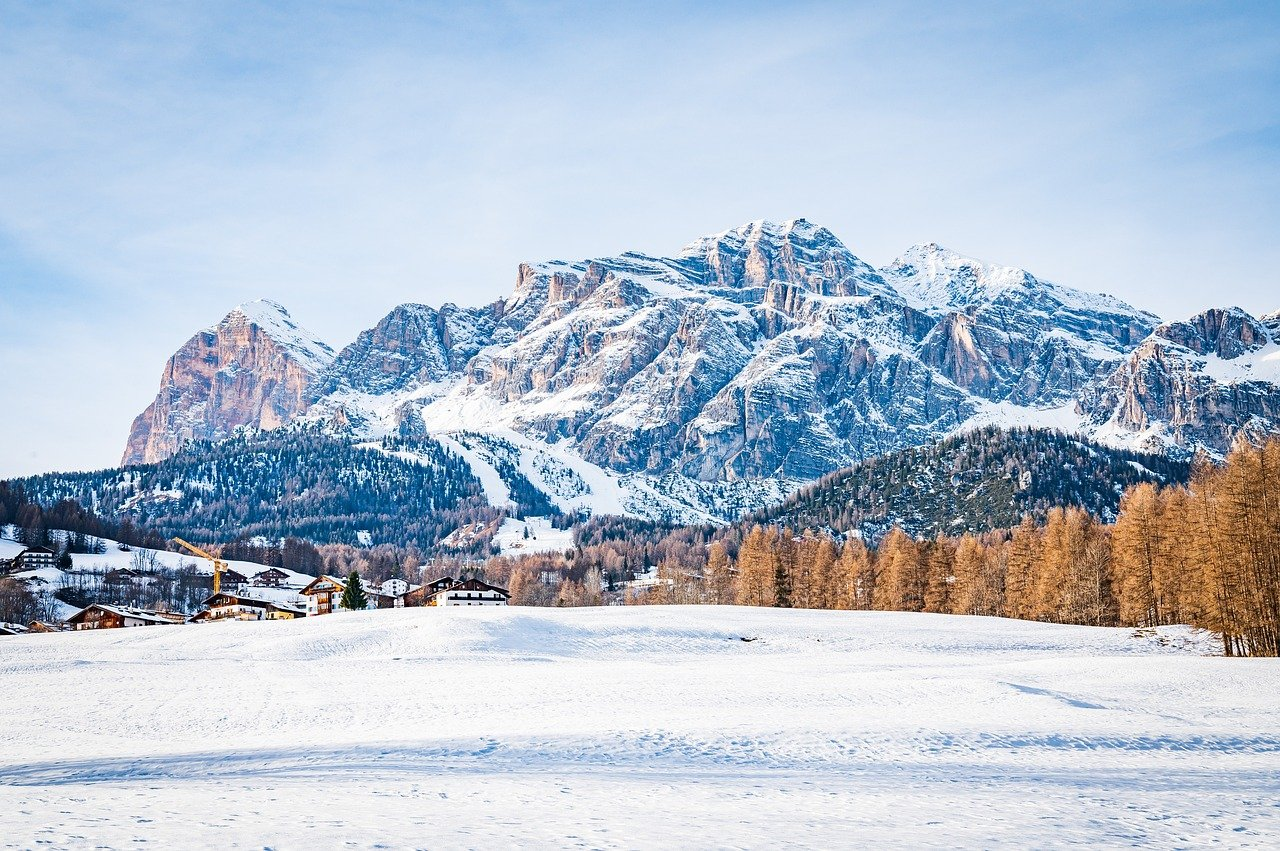
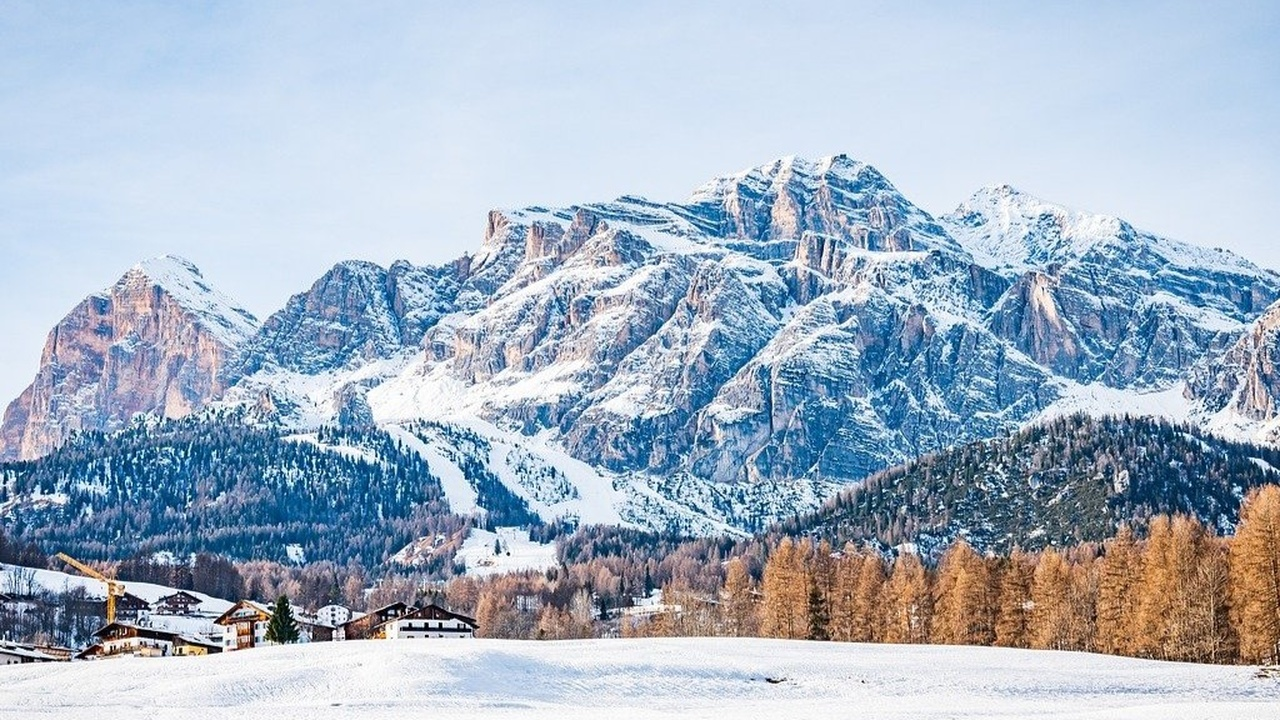
PHJ_사진 추가, 카드 수정

diff --git a/oversea/oversea.html b/oversea/oversea.html
@@ -20,10 +20,13 @@
         <img src="img/snowmountain.jpg" class="d-block w-100" alt="...">
       </div>
       <div class="carousel-item">
-        <img src="img/snowmountain.jpg" class="d-block w-100" alt="...">
+        <img src="img/japan.jpg" class="d-block w-100" alt="...">
       </div>
       <div class="carousel-item">
-        <img src="..." class="d-block w-100" alt="...">
+        <img src="img/china.jpg" class="d-block w-100" alt="...">
+      </div>
+      <div class="carousel-item">
+        <img src="img/vet.jpg" class="d-block w-100" alt="...">
       </div>
     </div>
     <button class="carousel-control-prev" type="button" data-bs-target="#carouselExampleIndicators" data-bs-slide="prev">
@@ -54,55 +57,45 @@
   <div class="row row-cols-1 row-cols-md-4 g-4" id="cardbox">
     <div class="col" id="card2">
       <div class="card">
-        <img src="img/snowmountain.jpg" class="card-img-top" alt="...">
+        <img src="img/japan.jpg" class="card-img-top" alt="...">
         <div class="card-body">
-          <h5 class="card-title">Card title</h5>
-          <p class="card-text">This is a longer card with supporting text below as a natural lead-in to additional content. This content is a little bit longer.</p>
+          <p class="card-cencept">해외여행</p>
+              <h5 class="card-title"><b>일본</b></h5>
+              <p class="card-text">#교토 #온천 #신사</p>
+              <p class="card-price"><b>500,000원~</b></p>  
         </div>
       </div>
     </div>
     <div class="col" id="card2">
       <div class="card">
-        <img src="img/snowmountain.jpg" class="card-img-top" alt="...">
+        <img src="img/us.jpg" class="card-img-top" alt="...">
         <div class="card-body">
-          <h5 class="card-title">Card title</h5>
-          <p class="card-text">This is a longer card with supporting text below as a natural lead-in to additional content. This content is a little bit longer.</p>
+          <p class="card-cencept">해외여행</p>
+            <h5 class="card-title"><b>미국</b></h5>
+            <p class="card-text">#뉴욕 #자유의 여신상</p>
+            <p class="card-price"><b>1,500,000원~</b></p> 
         </div>
       </div>
     </div>
     <div class="col" id="card2">
       <div class="card">
-        <img src="img/snowmountain.jpg" class="card-img-top" alt="...">
+        <img src="img/china.jpg" class="card-img-top" alt="...">
         <div class="card-body">
-          <h5 class="card-title">Card title</h5>
-          <p class="card-text">This is a longer card with supporting text below as a natural lead-in to additional content. This content is a little bit longer.</p>
+          <p class="card-cencept">해외여행</p>
+            <h5 class="card-title"><b>중국</b></h5>
+            <p class="card-text">#베이징 #중화요리 #만리장성</p>
+            <p class="card-price"><b>800,000원~</b></p>   
         </div>
       </div>
     </div>
     <div class="col" id="card2">
       <div class="card">
-        <img src="img/snowmountain.jpg" class="card-img-top" alt="...">
+        <img src="img/china.jpg" class="card-img-top" alt="...">
         <div class="card-body">
-          <h5 class="card-title">Card title</h5>
-          <p class="card-text">This is a longer card with supporting text below as a natural lead-in to additional content. This content is a little bit longer.</p>
-        </div>
-      </div>
-    </div>
-    <div class="col" id="card2">
-      <div class="card">
-        <img src="img/snowmountain.jpg" class="card-img-top" alt="...">
-        <div class="card-body">
-          <h5 class="card-title">Card title</h5>
-          <p class="card-text">This is a longer card with supporting text below as a natural lead-in to additional content. This content is a little bit longer.</p>
-        </div>
-      </div>
-    </div>
-    <div class="col" id="card2">
-      <div class="card">
-        <img src="img/snowmountain.jpg" class="card-img-top" alt="...">
-        <div class="card-body">
-          <h5 class="card-title">Card title</h5>
-          <p class="card-text">This is a longer card with supporting text below as a natural lead-in to additional content. This content is a little bit longer.</p>
+          <p class="card-cencept">해외여행</p>
+            <h5 class="card-title"><b>베트남</b></h5>
+            <p class="card-text">#다낭 #호이안 #쌀국수</p>
+            <p class="card-price"><b>800,000원~</b></p>   
         </div>
       </div>
     </div>

diff --git a/oversea/oversea.css b/oversea/oversea.css
@@ -30,6 +30,18 @@ p{
       -webkit-box-orient: vertical;
       overflow: hidden;
 }
+.card-cencept{
+  color: #80BCBD;
+}
+
+.card-text{
+  color: gray
+}
+
+.card-price{
+  text-align:end;
+  font-size:x-large
+}
 .reservation{
   margin:10px auto;
   padding: 20px;
